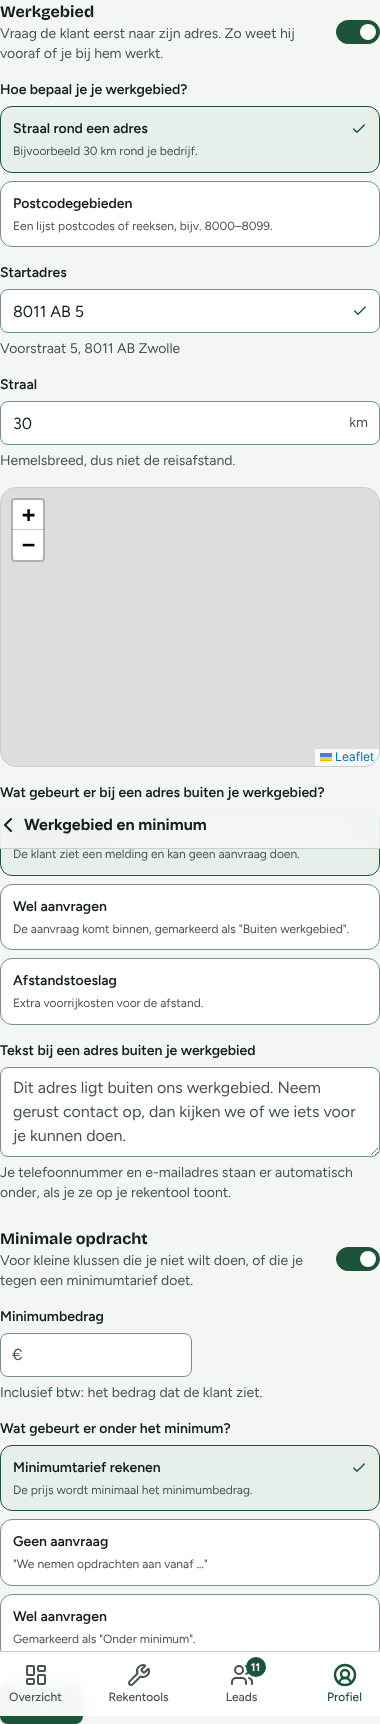
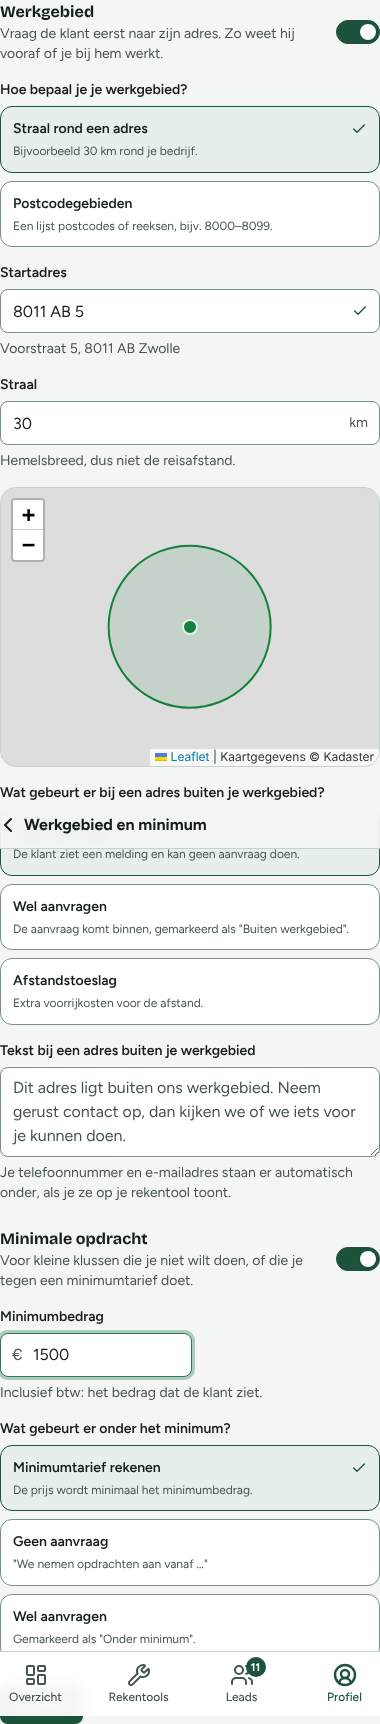
Werkgebied stap 6: documentatie en controle-uitvoer met schermafbeeldingen
Claude-Session: https://claude.ai/code/session_01HFvD2smTdENKXghem5TyYa

diff --git a/docs/werkgebied/README.md b/docs/werkgebied/README.md
@@ -1,0 +1,16 @@
+# Werkgebied en minimale opdracht
+
+Alles staat standaard **uit**: een rekentool zonder deze instellingen rekent en werkt precies als voorheen.
+
+- **Instellingen**: Profiel → "Werkgebied en minimum" (per bedrijf) en in de editor per rekentool (overnemen of eigen instelling). Opslag: `Company.werkgebied` / `Tool.werkgebied` (JSON).
+- **Rekenkern** (`app/lib/pricing/locatie.ts`, `engine.ts`): afstandstoeslag als eigen projectregel `Voorrijkosten extra afstand (34 km)`, minimum als eigen correctieregel `Aanvulling tot minimumtarief`; totaal = som van de regels. Uitkomst bevat `serviceArea` (`withinServiceArea` true/false/"unknown", `distanceKm`), `minimum.belowMinimum`, `requestAllowed` en `flags`.
+- **Afstand**: hemelsbreed (haversine) tot het startadres, op 0,1 km afgerond; precies op de straal telt als binnen. Dit staat ook in de instellingen. Het startadres wordt één keer bij opslaan gegeocodeerd (PDOK Locatieserver, gratis) en met coördinaten bewaard. PDOK-antwoorden worden 10 minuten onthouden.
+- **PDOK-storing blokkeert nooit**: de klant gaat door, de lead krijgt "Werkgebied niet gecontroleerd".
+- **Snapshot**: de instellingen zitten in de gepubliceerde snapshot, dus ook de embed en de reserve-snapshot werken zonder onze server.
+- **Server** (`app/lib/pricing/server.ts`): zoekt het adres zelf op, rekent afstand en prijs opnieuw met de kern en weigert aanvragen die niet mogen met dezelfde melding. Aanvragen uit de Cloudflare-reserve worden alleen gemarkeerd, nooit geweigerd.
+- **Leads**: labels "Buiten werkgebied", "Onder minimum", "Werkgebied niet gecontroleerd", afstand in km, filter, en een kaart in het leaddetail. Optioneel (standaard uit) een vriendelijke afwijzingsmail aan de klant bij "Buiten werkgebied" (`afwijzingVerzondOp` voorkomt dubbel versturen).
+- **Niet ondersteund**: formule-gebaseerde ("Aangepaste") rekentools gebruiken deze instellingen nog niet.
+
+## Controle
+
+`scripts/mobile-ux/werkgebied-controle.js` (zie `controle-uitvoer.txt`, 42/42). De sandbox bereikt PDOK en de kaarttegels niet: de server praat met `scripts/mobile-ux/fake-pdok.js` via `PDOK_BASIS_URL`, de browser krijgt dezelfde antwoorden via route-onderschepping, en de kaartachtergrond is een grijs vlak. Schermen: `docs/werkgebied/schermen/`.
